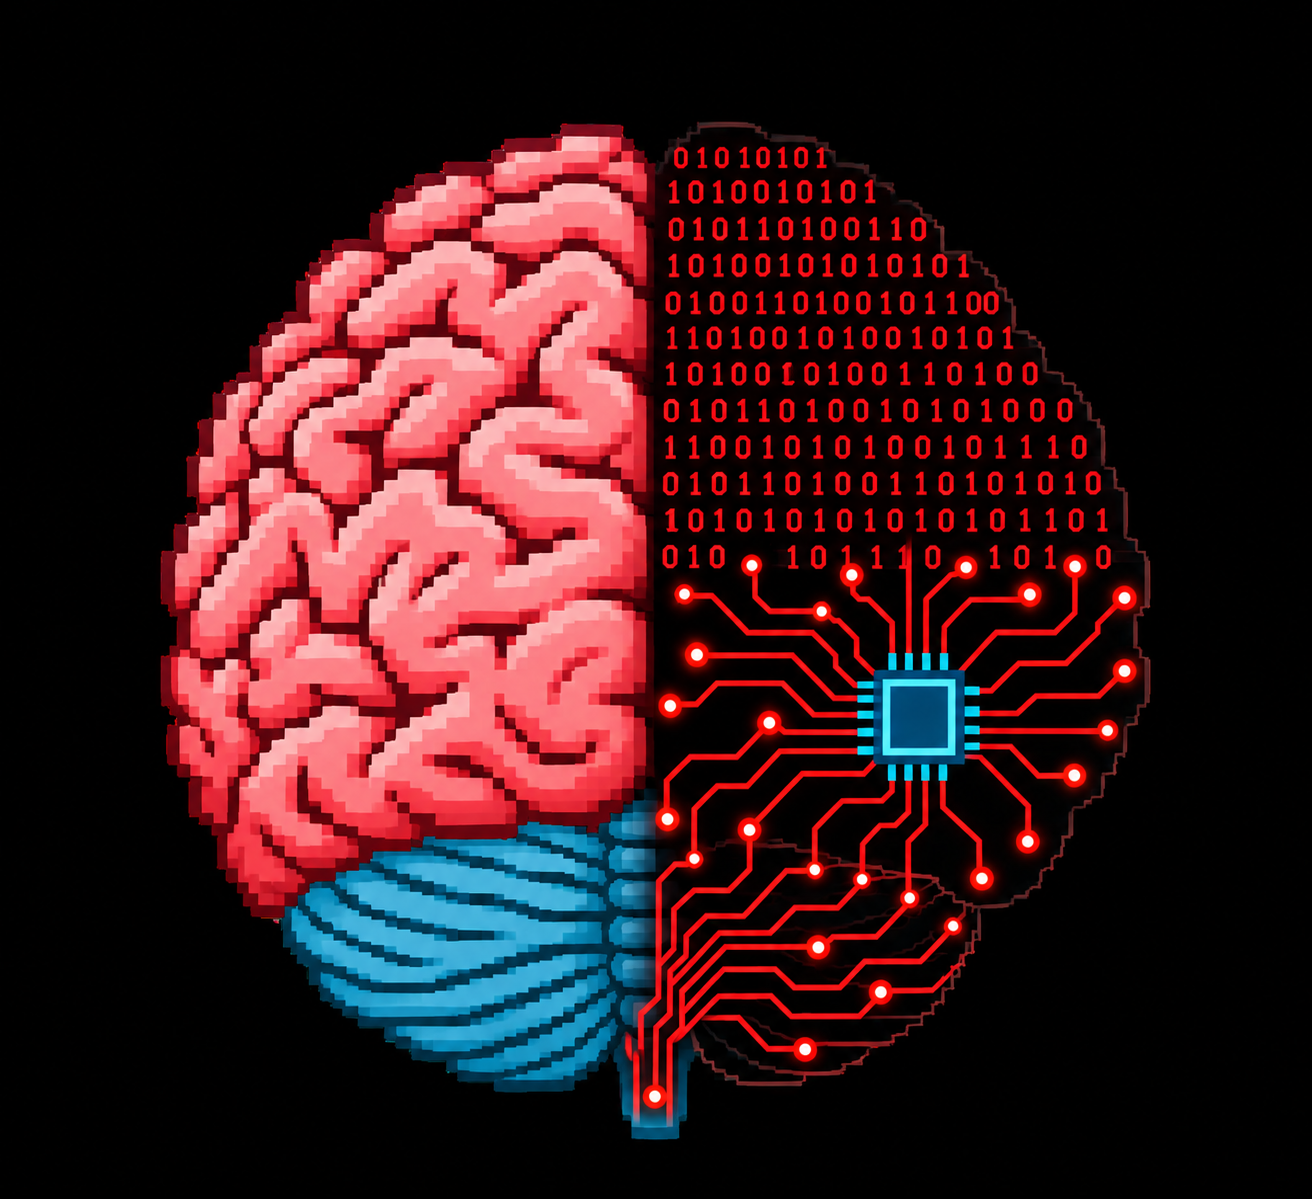
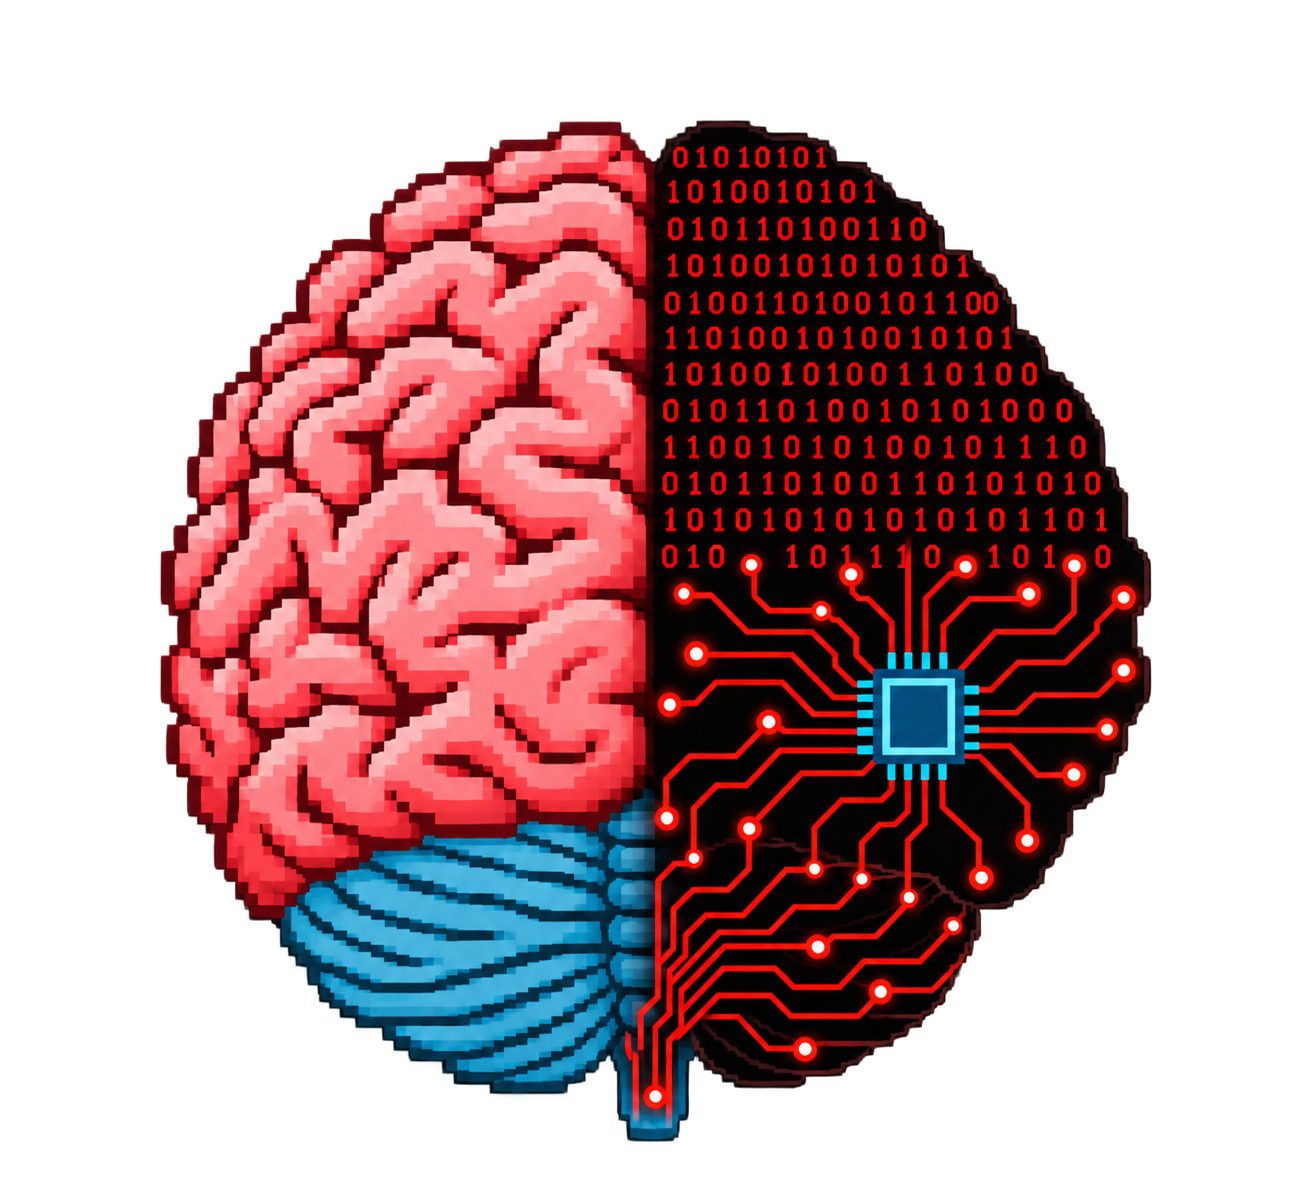
fixed console image

diff --git a/tests/test_console.py b/tests/test_console.py
@@ -11,6 +11,7 @@ from qtpy import QtWidgets
 
 from neuroseq import console_art
 from neuroseq import theme
+from neuroseq.console_widget import _BRAIN_RESOURCE_URL
 from neuroseq.console_widget import SAMPLE_CODE
 from neuroseq.console_widget import ConsoleWidget
 from neuroseq.project import Project
@@ -76,6 +77,33 @@ def test_console_scrolls_back_to_welcome_splash_on_startup(qtbot: QtBot) -> None
     qtbot.waitUntil(
         lambda: console.output.verticalScrollBar().value() == 0, timeout=WAIT_TIMEOUT_MS
     )
+
+
+def test_console_brain_is_small_and_keeps_its_transparent_background(
+    qtbot: QtBot,
+) -> None:
+    console = ConsoleWidget()
+    qtbot.addWidget(console)
+
+    def check_image() -> None:
+        image = console.output.document().resource(
+            QtGui.QTextDocument.ResourceType.ImageResource, _BRAIN_RESOURCE_URL
+        )
+        assert isinstance(image, QtGui.QImage)
+        assert not image.isNull()
+        assert max(image.width(), image.height()) == 240
+        original = QtGui.QImage(str(console_art.brain_image_path()))
+        assert image.width() / image.height() == pytest.approx(
+            original.width() / original.height(), abs=0.01
+        )
+        assert image.hasAlphaChannel()
+        assert image.pixelColor(0, 0).alpha() == 0
+        assert image.pixelColor(image.width() - 1, image.height() - 1).alpha() == 0
+
+    check_image()
+    console.show()
+    qtbot.waitUntil(lambda: console.isVisible(), timeout=WAIT_TIMEOUT_MS)
+    check_image()
 
 
 def test_console_retints_the_brain_image_on_construction_and_every_show(

diff --git a/tests/test_console_art.py b/tests/test_console_art.py
@@ -25,6 +25,21 @@ def test_brain_image_path_points_at_a_real_bundled_file() -> None:
     assert path.suffix == ".png"
 
 
+def test_console_brain_has_a_transparent_background() -> None:
+    with Image.open(console_art.brain_image_path()) as image:
+        assert image.mode == "RGBA"
+        alpha = image.getchannel("A")
+        assert alpha.getextrema() == (0, 255)
+        for corner in (
+            (0, 0),
+            (image.width - 1, 0),
+            (0, image.height - 1),
+            (image.width - 1, image.height - 1),
+        ):
+            # Allow negligible alpha left by background extraction.
+            assert alpha.getpixel(corner) <= 1
+
+
 def test_startup_brain_image_path_points_at_a_different_real_bundled_file() -> None:
     path = console_art.startup_brain_image_path()
     assert path.exists()

diff --git a/src/neuroseq/console_widget.py b/src/neuroseq/console_widget.py
@@ -209,6 +209,12 @@ class ConsoleWidget(ReplWidget):
         """
         image = QtGui.QImage()
         image.loadFromData(console_art.tinted_brain_image_bytes(random.Random()))
+        image = image.scaled(
+            240,
+            240,
+            QtCore.Qt.AspectRatioMode.KeepAspectRatio,
+            QtCore.Qt.TransformationMode.SmoothTransformation,
+        )
         self.output.document().addResource(
             QtGui.QTextDocument.ResourceType.ImageResource,
             _BRAIN_RESOURCE_URL,
